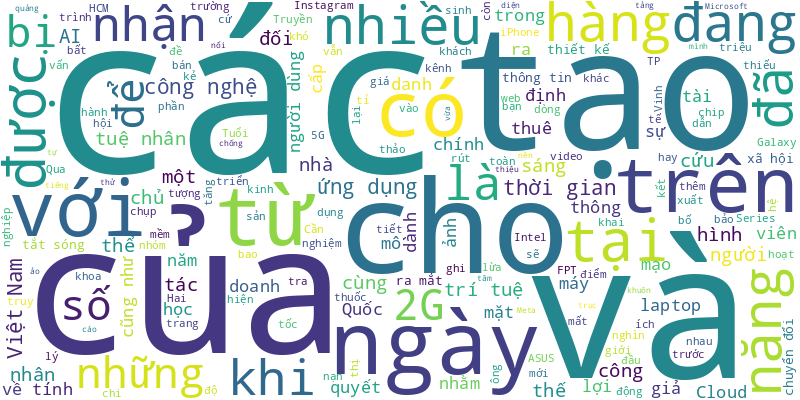
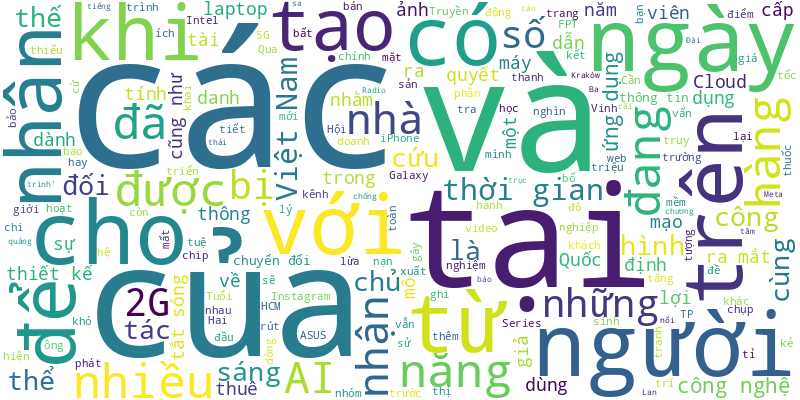
🍀 = 40%

diff --git a/README.md b/README.md
@@ -1,6 +1,17 @@
 # Tuoi Tre RSS 
 
 ## Giáo dục 
+- Kết quả xác minh ban đầu của công an huyện Bình Chánh cho thấy không có camera quay lén trong nhà vệ sinh Trường THPT Tân Túc (huyện Bình Chánh, TP.HCM) như thông tin lan truyền trước đó.
+- Trước việc học sinh mua ốc mượn hồn bán quanh trường đem vào lớp chơi rồi bị thương ở tay, nhà trường và phòng giáo dục ở Đà Nẵng yêu cầu nắm thông tin, cảnh báo không chơi.
+- Nhiều trường đại học tại TP.HCM công bố lịch nghỉ Tết Ất Tỵ 3 - 4 tuần, có trường cho sinh viên học online một tuần trước và sau Tết.
+- Về 15 học sinh tiểu học xuất hiện triệu chứng giống ngộ độc, ngành y tế cho rằng không đủ cơ sở xác định vụ ngộ độc mà do hiệu ứng đám đông.
+- Công an đã mời hai thiếu niên ép một nam sinh ở huyện Nam Đàn, Nghệ An ăn đất trong đêm đến trụ sở để làm rõ vụ việc.
+- Chủ doanh nghiệp lắp bạt chống nắng cho Trường tiểu học Lý Trạch lý giải về việc hiệu trưởng kê khai giá bạt cao gấp 3 lần giá phụ huynh khảo sát.
+- Dư luận cho rằng quy định này không thực tế vì người hoạt động cách mạng trước 1945 không thể có con ở tuổi 15 để tuyển sinh vào lớp 10.
+- Giang Văn Tân - học sinh bị bại não bẩm sinh - vừa chính thức bước vào giảng đường Đại học RMIT.
+- Tại Đà Nẵng, nhiều năm qua các trường học đã công khai bữa ăn bán trú bằng nhiều cách khác nhau.
+- Trường đại học Luật TP.HCM nhận tài trợ 1 tỉ đồng do Agribank tài trợ phục vụ cho đào tạo, khoa học công nghệ, hỗ trợ sinh viên.
+- Năm học 2023-2024 có khoảng 22.000 du học sinh nước ngoài đang học tập tại các đại học của Việt Nam.
 - Vừa qua, nhiều bạn học sinh đã tham quan trang trại Green Farm (Tây Ninh) và nhà máy sữa lớn nhất tại Việt Nam của Vinamilk (Bình Dương). Đây là một hoạt động dành cho các tài năng nhí về lập trình robot đến từ nhiều tỉnh thành trên cả nước.
 - TP.HCM mong muốn giữ ổn định kỳ thi tuyển sinh lớp 10 như các năm học trước. Bên cạnh đó, Sở Giáo dục và Đào tạo TP.HCM cũng đề xuất được chọn môn thi thứ ba.
 - Hiệu trưởng dùng tiền xã hội hóa do phụ huynh đóng góp lắp bạt chống nắng cho các phòng học. Nhưng sau đó phụ huynh phát hiện nhiều dấu hiệu bất thường về giá lắp công trình bạt che nắng này.
@@ -20,51 +31,41 @@
 - Sau khi phát hiện vi phạm tuyển sinh, chế độ đối với học sinh trường phổ thông dân tộc nội trú ở một số huyện, Sở Giáo dục và Đào tạo Thanh Hóa đã tiến hành kiểm tra, rà soát hoạt động của tất cả trường nội trú.
 - Chủ tịch Hội đồng trường Trường đại học Thủ Dầu Một, tỉnh Bình Dương cho biết sẽ trả lại sinh viên 37 tỉ đồng học phí thu vượt mức, trước đó đã được nộp vào ngân sách.
 - Khi chọn ngành nghề, cần tư duy mở, liên kết các ngành, các lĩnh vực và chú ý các ngành dịch vụ hiện đại như điện tử, sản xuất phần mềm, trí tuệ nhân tạo...
-- Ông Vương Tấn Việt (tức thượng tọa Thích Chân Quang) đã học đại học ngành ngôn ngữ Anh của Trường đại học Ngoại ngữ Hà Nội, hệ đào tạo từ xa từ năm 1994 đến năm 2001.
-- Bộ Giáo dục và Đào tạo đã yêu cầu các trường đại học liên quan khẩn trương thu hồi văn bằng đã cấp cho ông Vương Tấn Việt, do phát hiện bằng tốt nghiệp cấp III của ông này không hợp pháp.
-- Theo thông tin về kết quả xử lý văn bằng của ông Vương Tấn Việt xác định ông đã sử dụng bằng cấp 3 bổ túc văn hóa không hợp pháp, ông Việt cũng thừa nhận việc này.
-- Hiệu trưởng Trường THCS Nguyễn An Ninh ở phường Trung Mỹ Tây (quận 12) đã tự nguyện giao một con tê tê Java cho Chi cục Kiểm lâm TP.HCM.
-- Thi vào lớp 10 kiểu xoay vòng các môn không thể giải quyết nạn học lệch, học tủ, vì nếu như môn A đã thi rồi thì năm sau chắc chắn sẽ bị 'bỏ lơ'...
-- Tại TP.HCM có những cuộc thi mà học sinh không hề căng thẳng, trái lại được chơi hết mình, được trải nghiệm nhiều điều thú vị...
-- Bên cạnh đó, cơ sở đại học này phải có chuẩn giảng viên không được thấp hơn quy định đối với cơ sở giáo dục Việt Nam.
-- Sáng 20-10, ĐH Quốc gia TP.HCM đã tổ chức lễ khai khóa năm học 2024 - 2025 với chủ đề: "Sinh viên ĐH Quốc gia TP.HCM sẵn sàng cho kỷ nguyên vươn mình của đất nước".
-- Ngày càng nhiều sinh viên Canada tham gia các chương trình trao đổi từ vài tuần đến vài tháng ở TP.HCM, Cần Thơ, Trà Vinh...
-- Trần Anh Nam - sinh viên ngành logistics Trường cao đẳng Kinh tế TP.HCM - vừa tốt nghiệp thủ khoa với điểm số GPA đến 3.88/4.
-- Thái Nguyễn Đăng Khoa - sinh viên năm 3 ngành quản lý nhà nước Học viện Cán bộ TP.HCM - là 1 trong 15 đại biểu Tàu SSEAYP 2024.
 ![Edu](Edu.png)
 ## Thời Sự 
-- Dọc các tuyến phố quanh hồ Tây (Hà Nội) như phố Thanh Niên, Nguyễn Đình Thi, Trích Sài... cá chết nổi trắng mặt hồ, bốc mùi hôi thối.
-- Bộ Y tế vừa có thông tư quy định về chi trả trực tiếp bảo hiểm y tế nếu người dân tự mua thuốc, vật tư khi khám chữa bệnh bắt đầu từ năm 2025.
-- Nhức nhối 2 cơ sở tại quận 1 và Thủ Đức hành nghề phẫu thuật thẩm mỹ trái phép gây tai biến cho khách hàng.
-- Rạng sáng 25-10, bão Trà Mi (bão số 6) tăng lên cấp 9-10 (75-102km/h), giật cấp 12 và có khả năng tăng thêm 2 cấp trong hôm nay và ngày mai.
-- Một số tin tức đáng chú ý: Tỉ giá tiếp tục 'nóng'; Nắm 10% vốn Eximbank, Gelex lên tiếng trước tin đồn 'bủa vây'; Công ty phân phối ô tô lớn nhất Việt Nam thay chủ tịch; Kế toán trưởng Tập đoàn Hòa Bình xin nghỉ sau 4 tháng...
-- Hôm nay 25-10, thời tiết cả nước tương đối đẹp, ban ngày trời nắng. Biển Đông đón bão Trà Mi.
-- Trước những diễn biến phức tạp của bão Trà Mi (Trami), nhiều ngư dân đã khẩn trương đưa tàu thuyền về neo đậu tại Đà Nẵng để tránh bão.
-- Thanh niên lẻn vào vườn sâm của người khác nhổ trộm 350 cây sâm Ngọc Linh rồi mang về cất giấu nhưng bị công an bắt giữ sau 2 ngày gây án.
-- 100% thành viên Ủy ban Thường vụ Quốc hội có mặt đã thống nhất thông qua phương án sáp nhập huyện xã của TP Hải Phòng, Đà Nẵng và 19 tỉnh.
-- Gần đây, nhiều người dân đã phản ánh, thắc mắc về việc hiện nay sông Tắc tại khu vực bờ Hòn Rớ, gần cầu Bình Tân, TP Nha Trang đang bị lấn, lấp nhưng dân không rõ làm công trình gì?
-- Bộ Giao thông vận tải yêu cầu Cục Đường bộ Việt Nam khẩn trương đàm phán với nhà đầu tư, kịp thời có giải pháp xử lý dứt điểm các tồn tại của dự án BOT quốc lộ 51.
-- Công an tỉnh Lâm Đồng xác nhận đã khởi tố ông Nguyễn Trung Thành - nguyên phó chủ tịch UBND huyện Bảo Lâm (tỉnh Lâm Đồng) - liên quan đến sai phạm đất đai tại Công ty chè Minh Rồng.
-- Việc thiếu thuốc thời gian vừa qua tại TP.HCM không phải vướng ở cơ chế mua sắm, mà chủ yếu vướng chuỗi cung ứng, ông Lê Ngọc Danh - trưởng phòng nghiệp vụ dược Sở Y tế TP.HCM - cho hay.
-- UBND TP.HCM vừa có quyết định ban hành khung giá cho thuê nhà lưu trú công nhân trong khu công nghiệp tại TP.HCM.
-- Bão Trà Mi (tên quốc tế Trami, bão số 6) có thể đổi hướng bất thường do chịu tác động cùng lúc của hệ thống không khí lạnh và hoàn lưu bão mới hình thành ở vùng biển phía đông Philippines.
-- Thủ tướng Chính phủ đã có quyết định công nhận huyện Đất Đỏ, tỉnh Bà Rịa - Vũng Tàu đạt chuẩn nông thông mới nâng cao. Đây là quê hương của Anh hùng liệt sĩ Võ Thị Sáu.
-- Thủ tướng chỉ đạo chủ tịch các tỉnh, thành phố căn cứ tình hình cụ thể, chủ động quyết định việc cấm biển đối với tàu cá, tàu vận tải, tàu du lịch để ứng phó cơn bão Trà Mi.
-- Để giành chỗ đậu xe ô tô cho khách, một nhà hàng ở quận 1, TP.HCM đã nhiều để vật cản dưới lòng đường, tiềm ẩn nguy cơ tai nạn.
-- Số hồ sơ yêu cầu chứng thực bản sao trên địa bàn TP.HCM rất lớn, tăng qua từng năm. Năm 2023 là gần 7,8 triệu hồ sơ, còn 7 tháng đầu năm 2024 là hơn 3,1 triệu hồ sơ.
-- Quán cà phê kèm ăn sáng tại TP Đông Hà (Quảng Trị) tính phụ thu thêm tiền 'ăn không uống' trong hóa đơn thanh toán, khiến dân mạng dậy sóng tranh cãi.
-- Liên quan đến việc một bé trai tắm suối Lỡ ở xã Cửa Dương (TP Phú Quốc, Kiên Giang) mất tích nghi do nước cuốn trôi, lãnh đạo UBND xã này cho biết lực lượng cứu hộ địa phương đang ra sức lặn tìm kiếm cháu.
-- Sở Sở Kế hoạch và Đầu tư kiến nghị UBND TP.HCM phê bình 11 đơn vị giải ngân dưới mức tỉ lệ giải ngân chung của TP đến hết quý 3 năm 2024 (20,2%) và không có nguyên nhân khách quan.
-- Đường Nguyễn Tất Thành là trục chính kết nối trung tâm TP.HCM với quận 7, nhưng bị ùn tắc triền miên. Hiện đường này đang đứng số 1 danh sách các điểm ùn tắc, với 'thành tích' ùn ứ 811 lần trong chín tháng đầu năm 2024.
-- Bộ trưởng Bộ Y tế Đào Hồng Lan cho rằng thực sự bác sĩ không mong muốn bệnh nhân ra ngoài mua thuốc, bởi vì mua ngoài còn liên quan đến chất lượng, điều trị.
-- Chiều 24-10, Phó chủ tịch UBND TP.HCM Võ Văn Hoan có buổi kiểm tra, làm việc với các đơn vị, thúc đẩy tiến độ dự án xây dựng nút giao An Phú, TP Thủ Đức.
-- Quận Bình Thạnh đã và đang làm nhiều cách để xử lý, ngăn tình trạng rác chất đống ở đường Tố Hữu bên cạnh Học viện Cán bộ TP.HCM (thuộc phường 12) mà Tuổi Trẻ Online phản ánh.
-- Chiều 24-10, tại Bộ Quốc phòng, Đại tướng Phan Văn Giang, bộ trưởng Bộ Quốc phòng, đã chủ trì lễ đón chính thức và hội đàm với Thượng tướng Trương Hựu Hiệp, ủy viên Bộ Chính trị, phó chủ tịch Quân ủy Trung ương Trung Quốc.
-- Nhiều bạn đọc cho rằng cần kéo dài thêm ngày nghỉ lễ Tết dù Bộ Lao động - Thương binh và Xã hội đã trình Thủ tướng phương án nghỉ Tết tới 9 ngày.
-- Chiều nay 24-10, bão Trà Mi (tên quốc tế Trami) đi vào Biển Đông và trở thành cơn bão số 6. Dự báo cường độ bão sẽ liên tục tăng và có thể đổi hướng di chuyển trong 72 đến 120 giờ tới.
-- Hiệu trưởng dùng tiền xã hội hóa do phụ huynh đóng góp lắp bạt chống nắng cho các phòng học. Nhưng sau đó phụ huynh phát hiện nhiều dấu hiệu bất thường về giá lắp công trình bạt che nắng này.
+- Lần đầu tiên TP.HCM và một số tỉnh thành Đông Nam Bộ không còn được xem là 'miền đất hứa' cho người dân các tỉnh khác đến làm việc.
+- Đoàn kinh tế quốc phòng 337 quy tập được 2 hài cốt liệt sĩ, trong đó có một di vật là tấm nhôm khắc tên 'Trương Thành Ý - 21/1'.
+- TP.HCM vẫn xảy ra tình trạng thiếu thuốc cục bộ, đặc biệt là thuốc hiếm. Vậy làm sao để không thiếu thuốc cục bộ và không hết 'thuốc cứu người?'.
+- Công an phường Hòa Khánh Bắc (quận Liên Chiểu, TP Đà Nẵng) vừa tiếp nhận đơn trình báo của Phòng khám Pasteur về việc phòng khám này bị tố tắc trách để sản phụ mất con.
+- Nhiều khu vực trên bán đảo Sơn Trà đang đối mặt với nguy cơ sạt lở nghiêm trọng khi bão Trà Mi có thể ảnh hưởng trực tiếp đến đất liền.
+- Một số tin tức đáng chú ý: Quốc hội thảo luận tổ về kinh tế - xã hội; TP.HCM mở thêm ba đường sách; Hơn 40.000 ca tử vong liên quan rượu, bia mỗi năm...
+- Rạng sáng 26-10, bão Trà Mi (bão số 6) mạnh lên cấp 11 (103-117km/h), giật cấp 14. Dự báo bão hướng vào vùng biển ven bờ các tỉnh Trung Trung Bộ trước khi đổi hướng đi ra biển.
+- Hôm nay 26-10, bão Trà Mi gây mưa dữ dội trên Biển Đông, thời tiết Trung Bộ mưa to, Nam Bộ chiều tối mưa rào.
+- Bộ trưởng Lê Minh Hoan đề nghị các địa phương chuẩn bị phương án ứng phó với bão Trà Mi (bão số 6) ở mức độ cao nhất với phương châm không hối tiếc.
+- Những người bán vé số dạo đầu tiên tại thị trấn Phước Long (huyện Phước Long, Bạc Liêu) đã được kết nạp vào tổ chức Công đoàn.
+- Ngày 25-10, Cơ quan cảnh sát điều tra Bộ Công an đã khởi tố bị can và bắt tạm giam ông Bùi Văn Từ - trưởng Ban Quản lý các khu công nghiệp tỉnh Đắk Lắk.
+- Dù được các y, bác sĩ cố gắng cứu chữa, thai phụ bị bỏng 95% trong vụ nổ ở phường Tam Bình, TP Thủ Đức (TP.HCM) vẫn không qua khỏi.
+- Ngày 25-10, Chi cục Kiểm lâm TP.HCM đã có thông tin khuyến cáo sau sự việc phát hiện hai con tê tê Java tại hai nơi cách nhau vài trăm mét ở quận 12 vào đêm 20-10.
+- Có 2 đơn vị có tác phẩm vào chung khảo cuộc thi tuyển kiến trúc cầu vượt biển 3.900 tỉ đồng đề nghị xem lại tĩnh không cầu vượt biển, để các đơn vị tham gia đều công bằng.
+- Chuyến công tác Nga dự Hội nghị BRICS mở rộng của Thủ tướng Phạm Minh Chính đã thành công cả về mặt song phương và đa phương, góp phần củng cố cục diện đối ngoại thuận lợi cho Việt Nam.
+- Sau nhiều năm tìm giải pháp hạn chế xe né trạm chống thất thu, tới nay chủ BOT Điện Bàn (Quảng Nam) nói gần như không thể làm gì khác ngoài việc chờ đợi trong vô vọng.
+- Người phụ nữ chở ba con nhỏ trên xe máy va chạm với xe khách 16 chỗ chạy chiều ngược lại trên quốc lộ 14C, mấy mẹ con bị thương nặng, bé út tử vong.
+- Ngoài máy bay bị can thiệp bất hợp pháp, những máy bay vi phạm vùng trời Việt Nam, bay sai phép bay nhưng không chấp nhận hành động của máy bay Quân đội nhân dân Việt Nam thực hiện bay chặn, bay ép sẽ bị ép hạ cánh.
+- Nhiều bạn đọc cho rằng khoản phụ thu 'ăn không uống' mà quán Trà Sen Cọ Dầu (TP Đông Hà, Quảng Trị) đang áp dụng sẽ được trước mắt, nhưng thiệt về lâu dài.
+- Chỉ sau 10 ngày, giá cau từ chạm đỉnh, thu mua tại vườn 85.000 đồng/kg đã lao dốc chóng mặt, hiện chỉ còn 25.000 đồng/kg.
+- Công an Quảng Trị đã khởi tố vụ án mạng khiến hai người chết ở quán karaoke và xác định nghi phạm đi tìm các nạn nhân ở nhiều nơi rồi mượn dao vào phòng hát gây án.
+- Ông Trần Phú Vinh, trưởng Phòng Tài nguyên và Môi trường TP Vũng Tàu, vừa có giấy ủy quyền công việc cho phó trưởng phòng này.
+- Quốc hội đã thông qua nghị quyết về việc miễn nhiệm chức vụ tổng thư ký Quốc hội, cho thôi làm nhiệm vụ đại biểu Quốc hội khóa XV với ông Bùi Văn Cường.
+- Thành ủy TP.HCM vừa có thông báo phân công công tác Thường trực Thành ủy, các ủy viên Ban Thường vụ Thành ủy, trưởng các cơ quan chuyên trách tham mưu giúp việc Thành ủy, Đoàn đại biểu Quốc hội TP, HĐND TP và UBND TP.HCM.
+- Thời gian gần đây, Sở Y tế TP.HCM đã tiếp nhận nhiều phản ánh liên quan đến 'chân mày phong thủy', nhiều người chi trả hàng trăm triệu đồng.
+- Tân bí thư Tỉnh ủy Thanh Hóa Nguyễn Doãn Anh khẳng định sẽ cùng Đảng bộ, chính quyền, nhân dân đoàn kết, chung sức vượt qua mọi khó khăn; hiện thực hóa khát vọng xây dựng tỉnh Thanh Hóa trở thành cực tăng trưởng mới ở phía Bắc của Tổ quốc.
+- Dự báo mới nhất cho thấy bão Trà Mi (bão số 6) đi vào vùng biển ven bờ các tỉnh Trung Trung Bộ rồi đổi hướng. Dự báo bão số 6 gây mưa lớn ở miền Trung, có nơi trên 700mm.
+- Toàn TP Vinh sẽ có gần 600 camera được lắp đặt tại nhiều tuyến đường giao thông trọng điểm.
+- Kết quả xét nghiệm cho thấy 100% mẫu bệnh phẩm trong vụ ngộ độc thực phẩm khiến 91 người nhập viện đều dương tính với E.coli.
+- Quân đội Việt Nam - Lào tiếp tục hợp tác chặt chẽ trong ngăn chặn, đấu tranh với các loại tội phạm xuyên quốc gia trong tình hình mới.
 ![New](News.png)
 ## Nhịp sống số 
+- Đài phát thanh OFF Radio Kraków tại Ba Lan gây tranh cãi khi sa thải các nhà báo của mình để sử dụng 'người dẫn chương trình' AI.
 - Meta thể hiện quyết tâm chống lại nạn quảng cáo trục lợi từ hình ảnh người nổi tiếng, khi thử nghiệm công nghệ nhận diện khuôn mặt trên các nền tảng của mình.
 - Microsoft vừa giới thiệu các tác nhân trí tuệ nhân tạo (AI) tự động hay nhân viên ảo, với khả năng xử lý các truy vấn từ người dùng, cũng như xác định nhóm khách hàng tiềm năng.
 - Công nghệ giả mạo 'deepfake' đang gây khó cho cơ quan quản lý Hàn Quốc, trong bối cảnh người dân ngày càng dành nhiều thời gian xem YouTube, Instagram.
@@ -94,5 +95,4 @@
 - Các nhà sản xuất điện thoại smartphone từ Trung Quốc đã làm lung lay vị thế dẫn đầu lâu đời của Samsung tại thị trường Đông Nam Á.
 - Với Galaxy Z Fold6, bạn có thể thoải mái sáng tạo và sáng tác bất cứ khi nào, bất cứ nơi đâu, đặc biệt hữu ích với những bạn trong ngành thiết kế, đồ họa, truyền thông…
 - Hai đối tượng đã lắp đặt thiết bị đánh cắp thông tin thẻ ngân hàng tại một số máy ATM ở Úc, sau đó rút tiền từ tài khoản của nạn nhân.
-- Xã hội Trí tuệ nhân tạo được phác thảo là một xã hội ứng dụng sâu rộng trí tuệ nhân tạo vào mọi mặt chính trị, xã hội, kinh tế, khoa học công nghệ, kinh doanh, văn hóa, giáo dục.
 ![life](Life.png)
